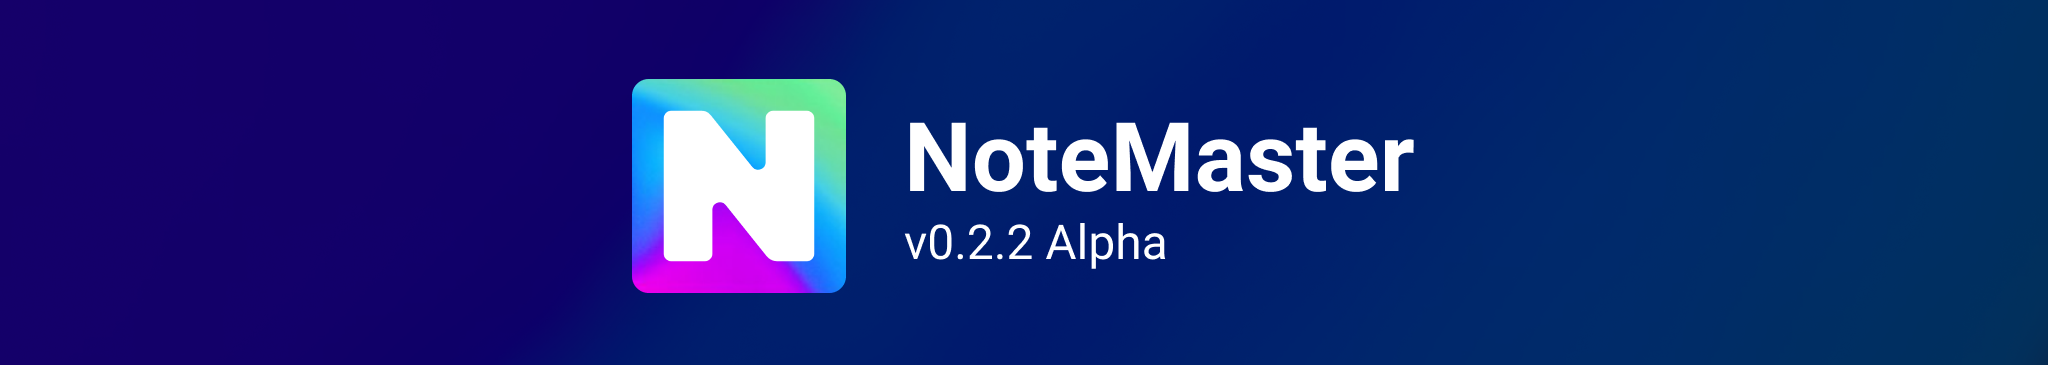
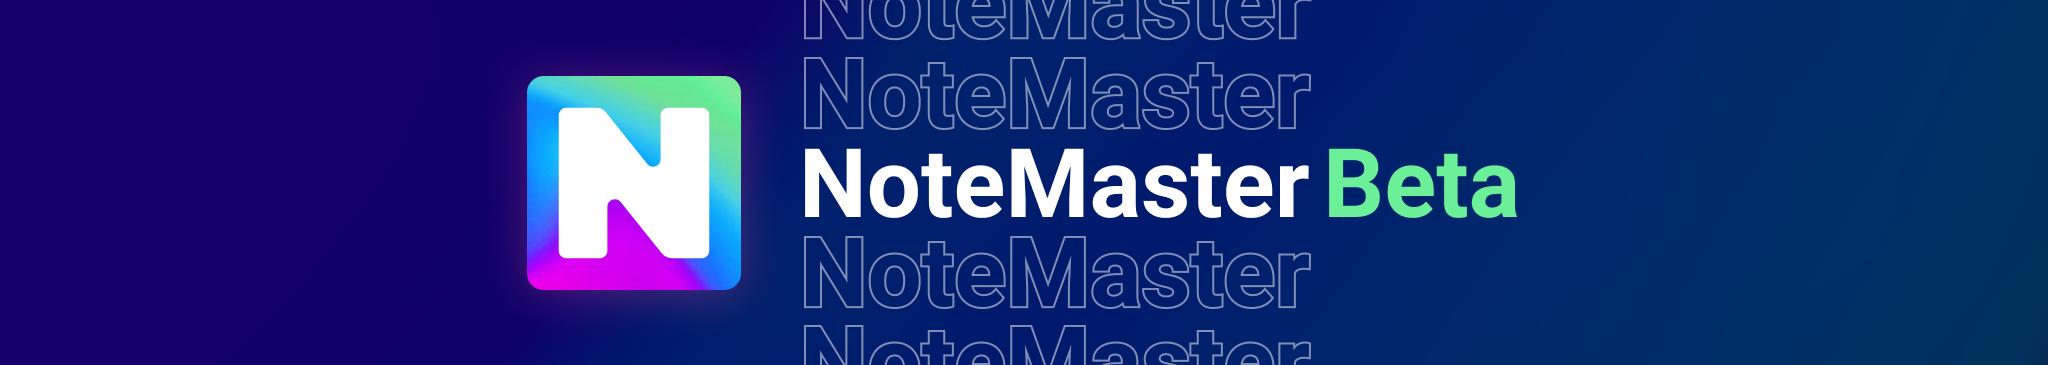
README.md

Changed region(s): [[0.25, 0.1507, 0.75, 0.8438], [0.375, 0.0, 0.625, 0.1205], [0.375, 0.874, 0.6562, 1.0]]

diff --git a/README.md b/README.md
@@ -1,58 +1,94 @@
-<img src="internals/img/banner.png" width="100%" />
+<img src="internals/img/banner_beta.png" width="100%" />
+
+<p align="center">
+  <img width="600px" src="internals/img/app.png"/>
+</p>
+
+<p align="center">NoteMaster is a smart minimalistic persistent note-taking app to help boost productivity.
+</p>
 
 <p align="center">
   <a href="https://www.codacy.com?utm_source=github.com&amp;utm_medium=referral&amp;utm_content=LiamRiddell/NoteMaster&amp;utm_campaign=Badge_Grade"><img src="https://app.codacy.com/project/badge/Grade/879120a5ade548ba8d93519622a62309"/></a>
 </p>
 
-# Introduction
+## Introducing Smart Mode
 
-`NoteMaster` is a minimalist persistent note-taking app to help boost productivity.
+NoteMaster Beta introduces the first key feature that makes NoteMaster unique. Smart Mode automatically recognizes keywords, and intelligently provides results as you type, for example:
 
-<p align="center">
-  <img width="362px" src="internals/img/nm-app.png"/>
-</p>
+Arithmetic
 
-## Features
+```
+100 + 10 + 10 -> 120
+```
 
-NoteMaster is being developed continuously by the maintainers. Our vision is to create the best minimal open-source note-taking app to boost productivity.
+Unit Conversion
 
-- Dark UI - Save your damn eyes!
-- Persistent Notes - That's right! Your notes are saved as you type. RIP Save.
-- Magical Highlighting - Separate the notes with them comments!
-- Pin Window - Make NoteMaster fly high above other apps, so it's always visible.
-- Fullscreen - Dive deep and go full screen for the ultimate note minimal note-making experience.
-- Global Shortcut - Summon Notemaster using `Windows + N`. Honestly, it's magic.
-- Preferences - It's a pick and mix of font size, font weight, line height, line numbers...
-- Export - You heard it! Export them lovely notes to another place which you'll never open again.
-- Find/Replace - You've become such as a `NoteMaster`(wow, that was bad) that you need to search!
-- Search with Google - Quickly search your text selection on Google.
-- Emoji Support - Yes... unreal, I know. You can now have so much fire in your notes.
+```
+100cm in m -> 0.1m
+```
+
+Currency Conversion
+
+```
+$100 in GBP -> £77.3
+```
+
+Percentages
+
+```
+10% of 100 -> 10
+```
+
+That's not all! Head over to [our documentation](https://www.google.com) for a list of all of the statements that NoteMaster can recognize.
+
+## Additional Features
+
+NoteMaster is continuously being developed. Our vision is to create the best open-source, note-taking app that boosts our users productivity. We've already added so much:
+
+- Dark UI - We love the slickness of a dark UI, plus it's better for your eyes. Win-win!
+- Smart Mode - Let NoteMaster do the heavy lifting with quick calculations and conversions.
+- Persistent Notes - That's right! Your notes are saved as you type. RIP Save As.
+- Magical Highlighting - Separate your notes with comments!
+- Pin Window - Make NoteMaster fly high above other apps, so it's always visible above the focused window.
+- Fullscreen - Dive deep and go fullscreen for a more in-depth note-making experience.
+- Global Shortcut - Summon NoteMaster using `Windows + N`. Honestly, it's magic.
+- Preferences - Make it your own by customising the font size, font weight, line height, line numbers...
+- Export - You heard it! Export those lovely notes to another place on your device where you'll never open them again.
+- Find/Replace - Become a `NoteMaster` (wow, that was bad) with the search functionality!
+- Search with Google - Quickly highlight and search the selected text on Google.
+- Emoji Support - Yes... amazing, and absolutely essential - we know. You can now have so much fire in your notes.
 
 ## Supported Operating Systems
 
-NoteMaster is currently only available for Windows. We require additional developers to help us bring experience to both Linux and macOS.
+NoteMaster is now available on the following platforms:
+
+- Windows
+- Linux
+- Mac
 
 ## Download NoteMaster
 
 NoteMaster can be downloaded via [GitHub Releases](https://github.com/LiamRiddell/NoteMaster/releases). Please only download versions of NoteMaster that are hosted on GitHub.
 
-## Make NoteMaster Better
+## Contribute features to NoteMaster
 
-NoteMaster is built on top of [Electron React Boilerplate](https://electron-react-boilerplate.js.org/docs/installation). Please follow the [documentation provided.](https://electron-react-boilerplate.js.org/docs/installation) Cloning the repo for development is simple:
+NoteMaster is built on top of [Electron React Boilerplate](https://electron-react-boilerplate.js.org/docs/installation). To setup up local development workbench follow a few simple steps:
 
-First, clone the repo via git:
+First, clone the repo via Git:
 
 ```bash
-git clone --depth 1 --single-branch --branch master https://github.com/LiamRiddell/NoteMaster.git notemaster
+$ git clone --depth 1 --single-branch --branch master https://github.com/LiamRiddell/NoteMaster.git notemaster
 ```
 
-And then install the dependencies with yarn.
+and then install the dependencies with yarn.
 
 ```bash
 $ cd notemaster
 $ yarn
 ```
+
 ## Report a Bug
+
 `NoteMaster` project is constantly finding ways to make you work more productive but while we implement new features bugs appear! [Report a bug.](https://github.com/LiamRiddell/NoteMaster/issues)
 
 ## License
@@ -63,7 +99,9 @@ GNU GPLv3.0 © [NoteMaster](https://github.com/LiamRiddell/NoteMaster/blob/maste
 
 ## Appreciations
 
-Thanks to the following great projects that made NoteMaster possible:
+Thanks to the following great projects that made NoteMaster possible. Please go and follow and support these projects.
 
 - [Electron React Boilerplate](https://github.com/electron-react-boilerplate)
 - [Monaco Editor](https://github.com/microsoft/monaco-editor)
+- [Nearley](https://nearley.js.org/)
+- [Moo](https://github.com/no-context/moo)
